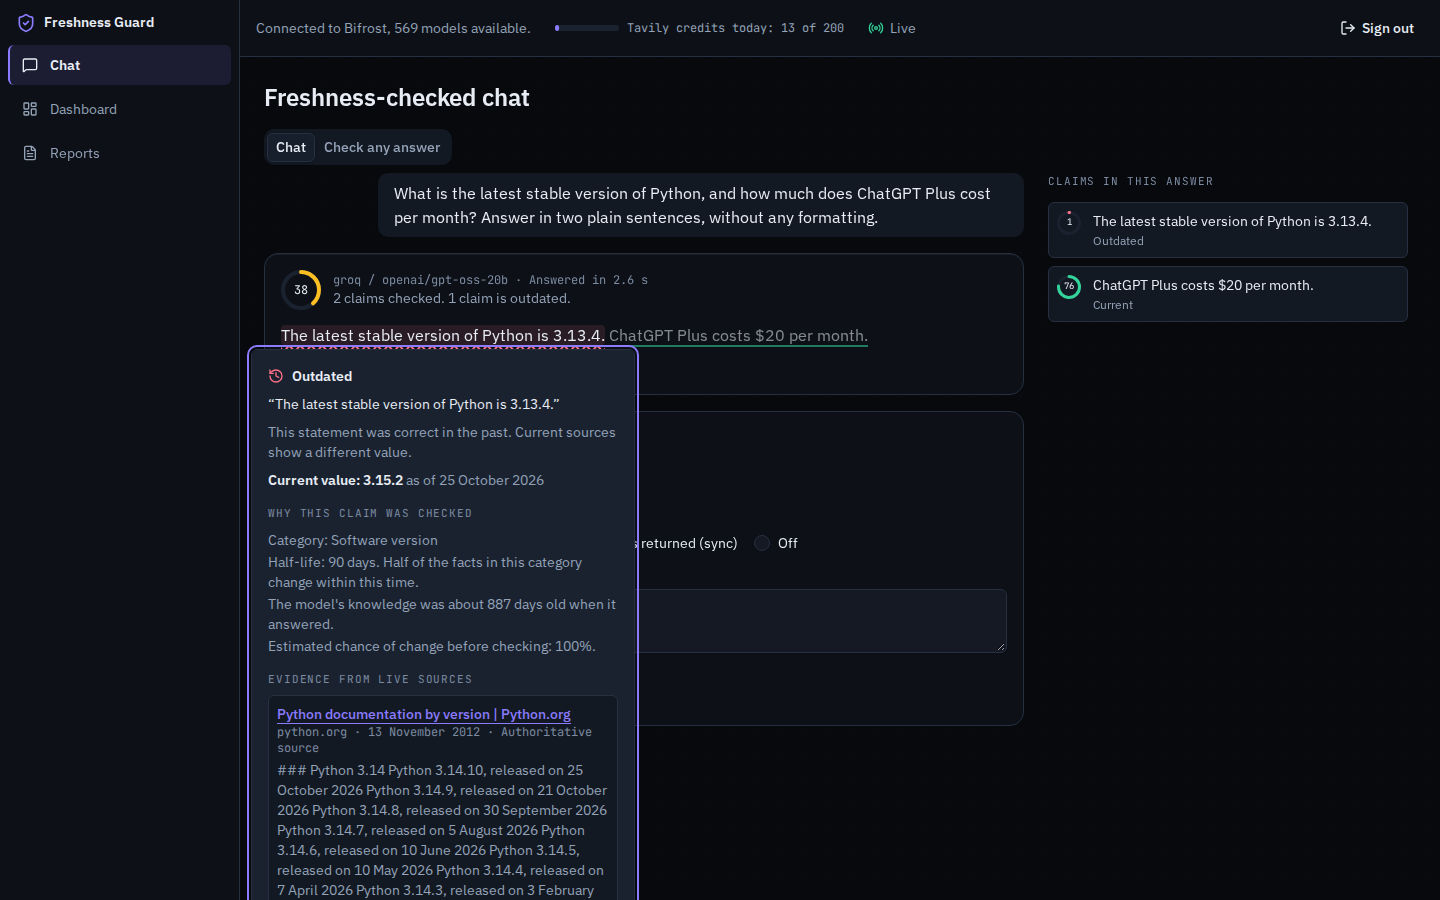
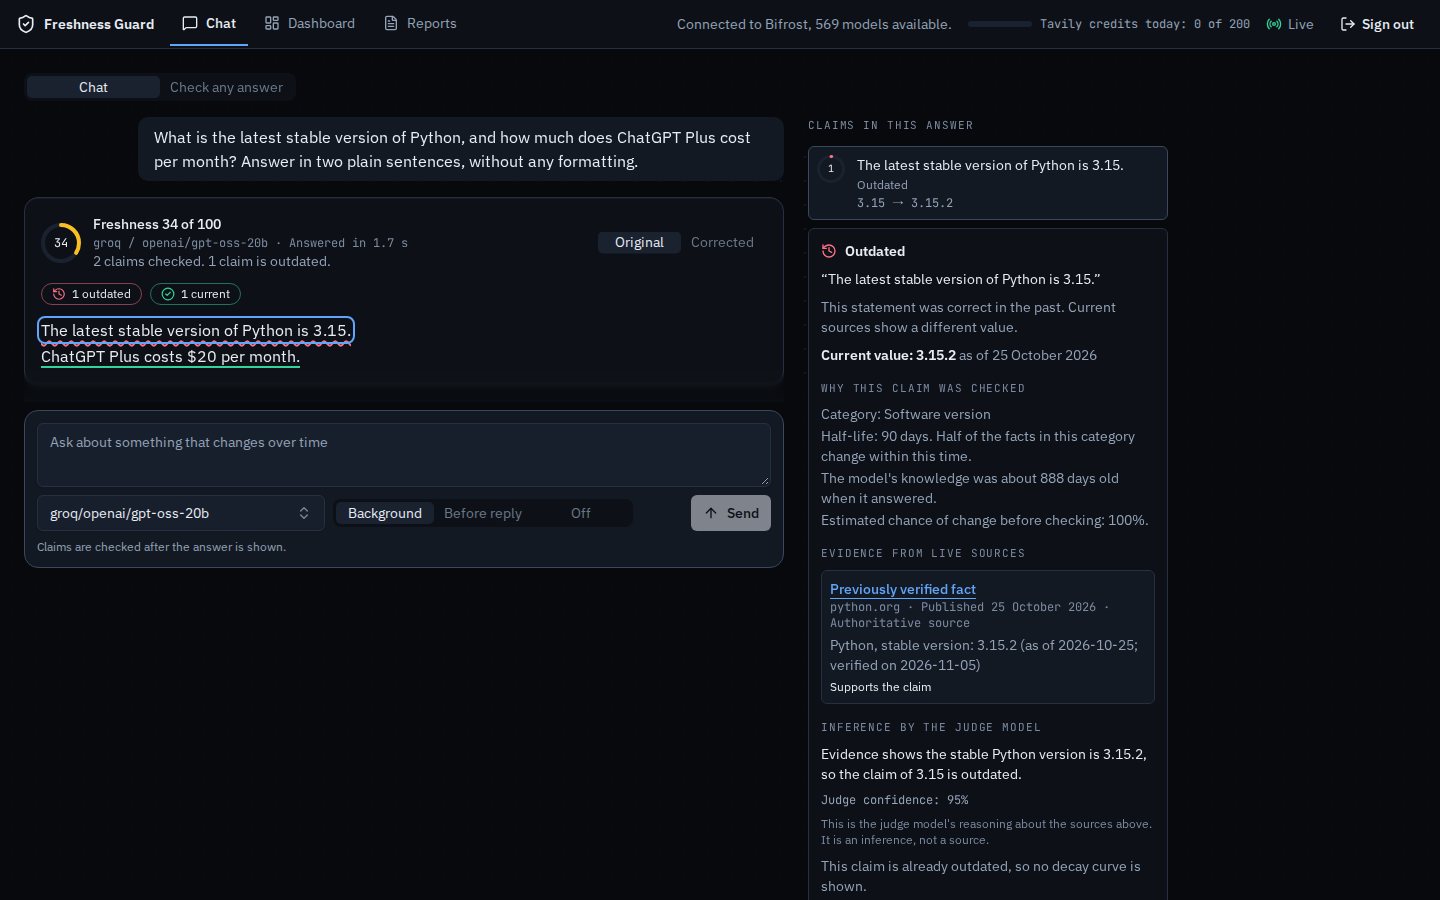
test: update browser tests and README screenshots for the chat redesign

diff --git a/web/e2e/sync.spec.ts b/web/e2e/sync.spec.ts
@@ -4,18 +4,18 @@ import { ask, pickModel, signIn } from './helpers'
 test.beforeEach(async ({ page }) => {
   await signIn(page)
   await pickModel(page, 'openai/fake-model')
-  await page.getByRole('radio', { name: 'Before the answer is returned (sync)' }).click()
+  await page.getByRole('radio', { name: 'Before reply' }).click()
 })
 
 test('a sync answer arrives already corrected', async ({ page }) => {
-  await page.getByRole('radio', { name: 'Correct the answer' }).click()
+  await page.getByRole('radio', { name: 'Correct' }).click()
   await ask(page)
   await expect(page.locator('ins').filter({ hasText: '$25' }).first()).toBeVisible({ timeout: 30_000 })
-  await expect(page.getByRole('switch', { name: 'Show corrected answer' })).toBeChecked()
+  await expect(page.getByRole('radio', { name: 'Corrected' })).toHaveAttribute('aria-checked', 'true')
 })
 
 test('a blocked answer links to its report', async ({ page }) => {
-  await page.getByRole('radio', { name: 'Block the answer' }).click()
+  await page.getByRole('radio', { name: 'Block' }).click()
   await ask(page)
   await expect(page.getByText('The answer was blocked because it contains outdated or incorrect claims.')).toBeVisible({
     timeout: 30_000,

diff --git a/web/e2e/chat.spec.ts b/web/e2e/chat.spec.ts
@@ -12,12 +12,11 @@ test('an async answer is underlined as verdicts arrive and explains itself', asy
 
   await price.focus()
   await page.keyboard.press('Enter')
-  const card = page.getByRole('dialog')
+  const card = page.getByRole('complementary', { name: 'Claims in this answer' })
   await expect(card).toContainText('Current value: $25 per month')
   await expect(card.getByRole('heading', { name: 'Evidence from live sources' })).toBeVisible()
   await expect(card.getByRole('heading', { name: 'Inference by the judge model' })).toBeVisible()
-  await page.keyboard.press('Escape')
 
-  await page.getByRole('switch', { name: 'Show corrected answer' }).click()
+  await page.getByRole('radio', { name: 'Corrected' }).click()
   await expect(page.locator('ins').filter({ hasText: '$25 per month' }).first()).toBeVisible()
 })

diff --git a/web/e2e/screenshots.spec.ts b/web/e2e/screenshots.spec.ts
@@ -24,12 +24,11 @@ test('README screenshots', async ({ page }) => {
 
   await outdated.focus()
   await page.keyboard.press('Enter')
-  await expect(page.getByRole('dialog')).toBeVisible()
+  await expect(page.getByRole('complementary', { name: 'Claims in this answer' })).toContainText('Why this claim was checked')
   await settle(page)
   await page.screenshot({ path: 'docs-images/chat.png' })
-  await page.keyboard.press('Escape')
 
-  await page.getByRole('switch', { name: 'Show corrected answer' }).click()
+  await page.getByRole('radio', { name: 'Corrected' }).click()
   await expect(page.locator('ins').first()).toBeVisible()
   await settle(page)
   await page.screenshot({ path: 'docs-images/corrected.png' })

diff --git a/web/e2e/check.spec.ts b/web/e2e/check.spec.ts
@@ -3,7 +3,7 @@ import { claim, fakeAnswer, signIn } from './helpers'
 
 test('any pasted answer can be checked', async ({ page }) => {
   await signIn(page)
-  await page.getByRole('tab', { name: 'Check any answer' }).click()
+  await page.getByRole('radio', { name: 'Check any answer' }).click()
   await page.getByLabel('Answer to check').fill(fakeAnswer)
   await page.getByRole('button', { name: 'Check this answer' }).click()
   await expect(claim(page, '$20 per month')).toHaveAttribute('data-claim-status', 'outdated', { timeout: 30_000 })
